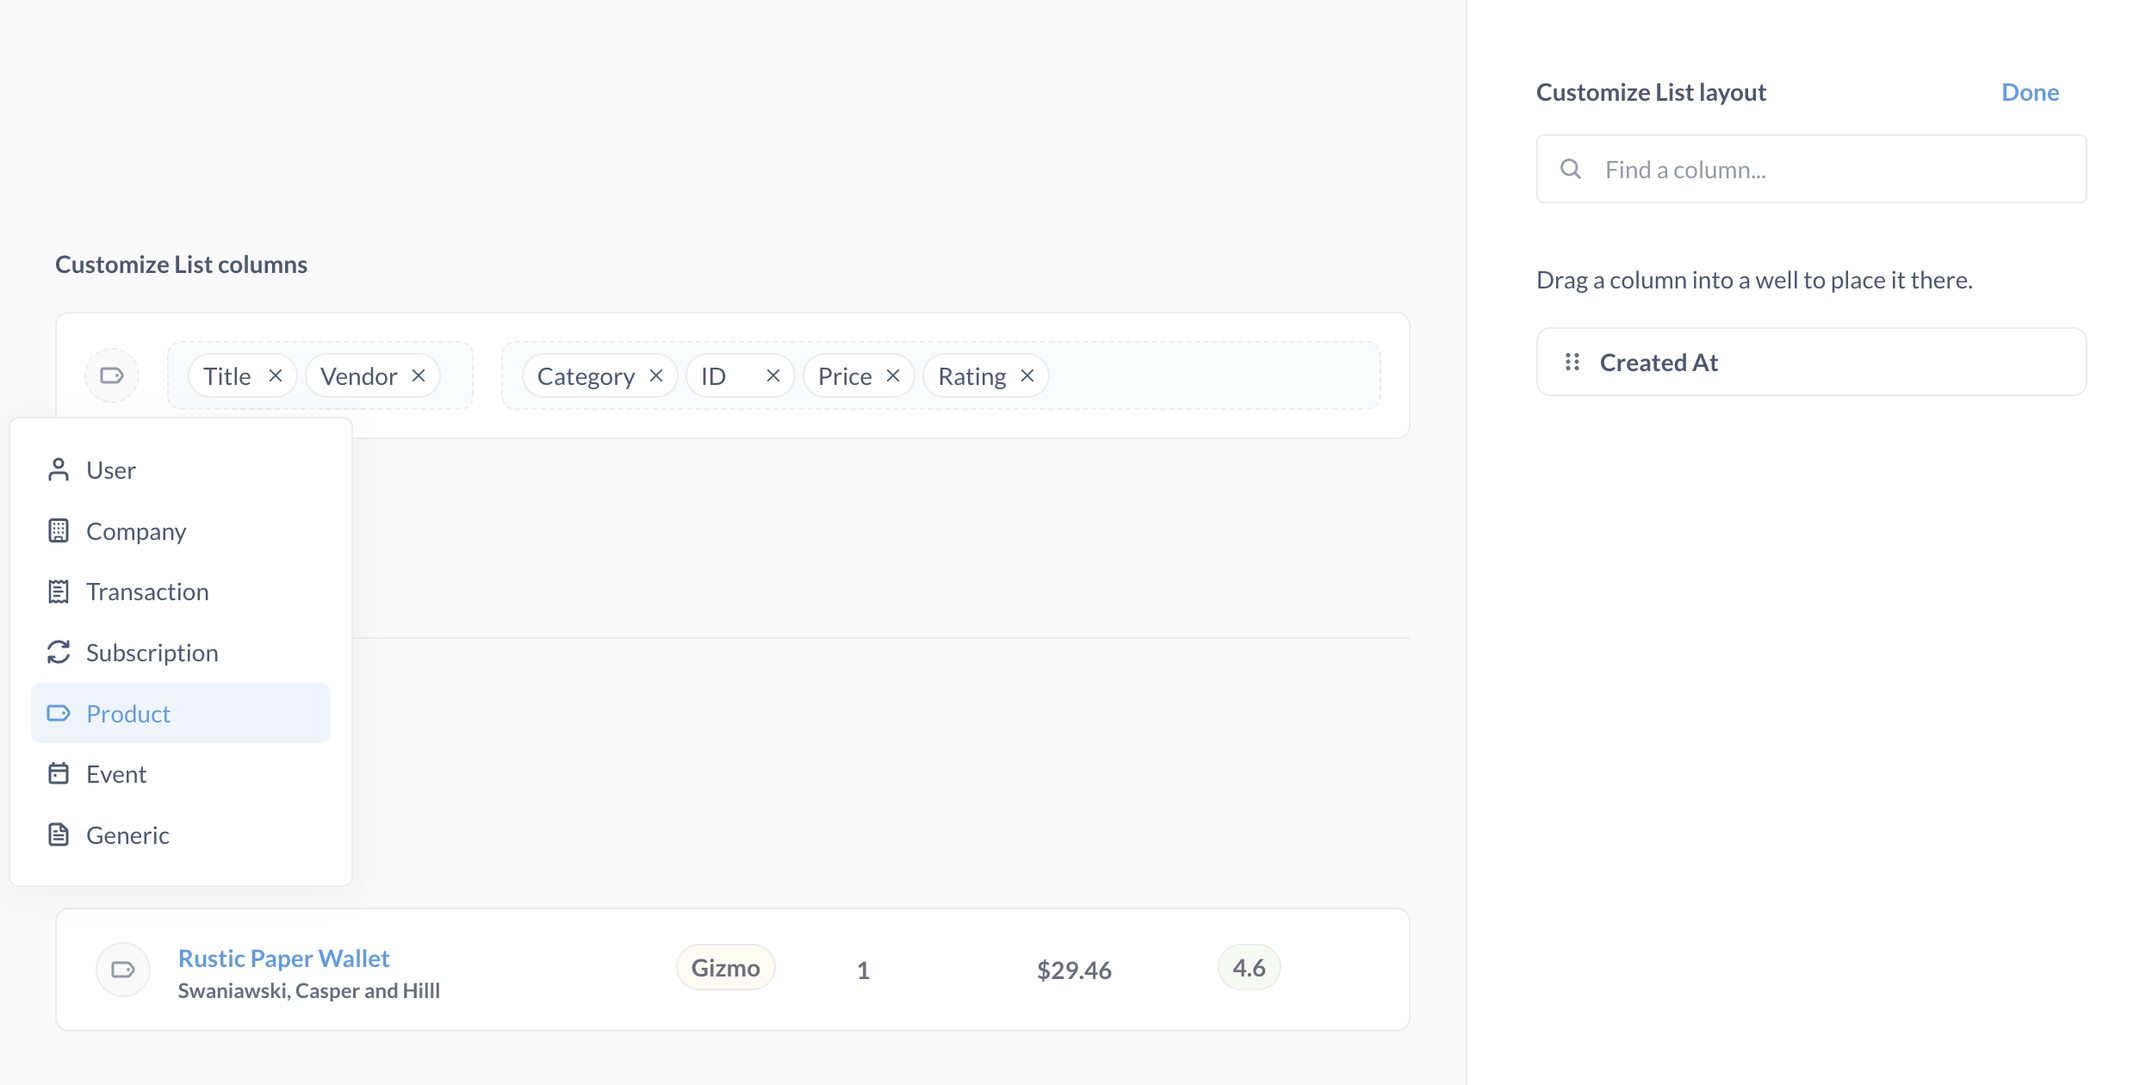
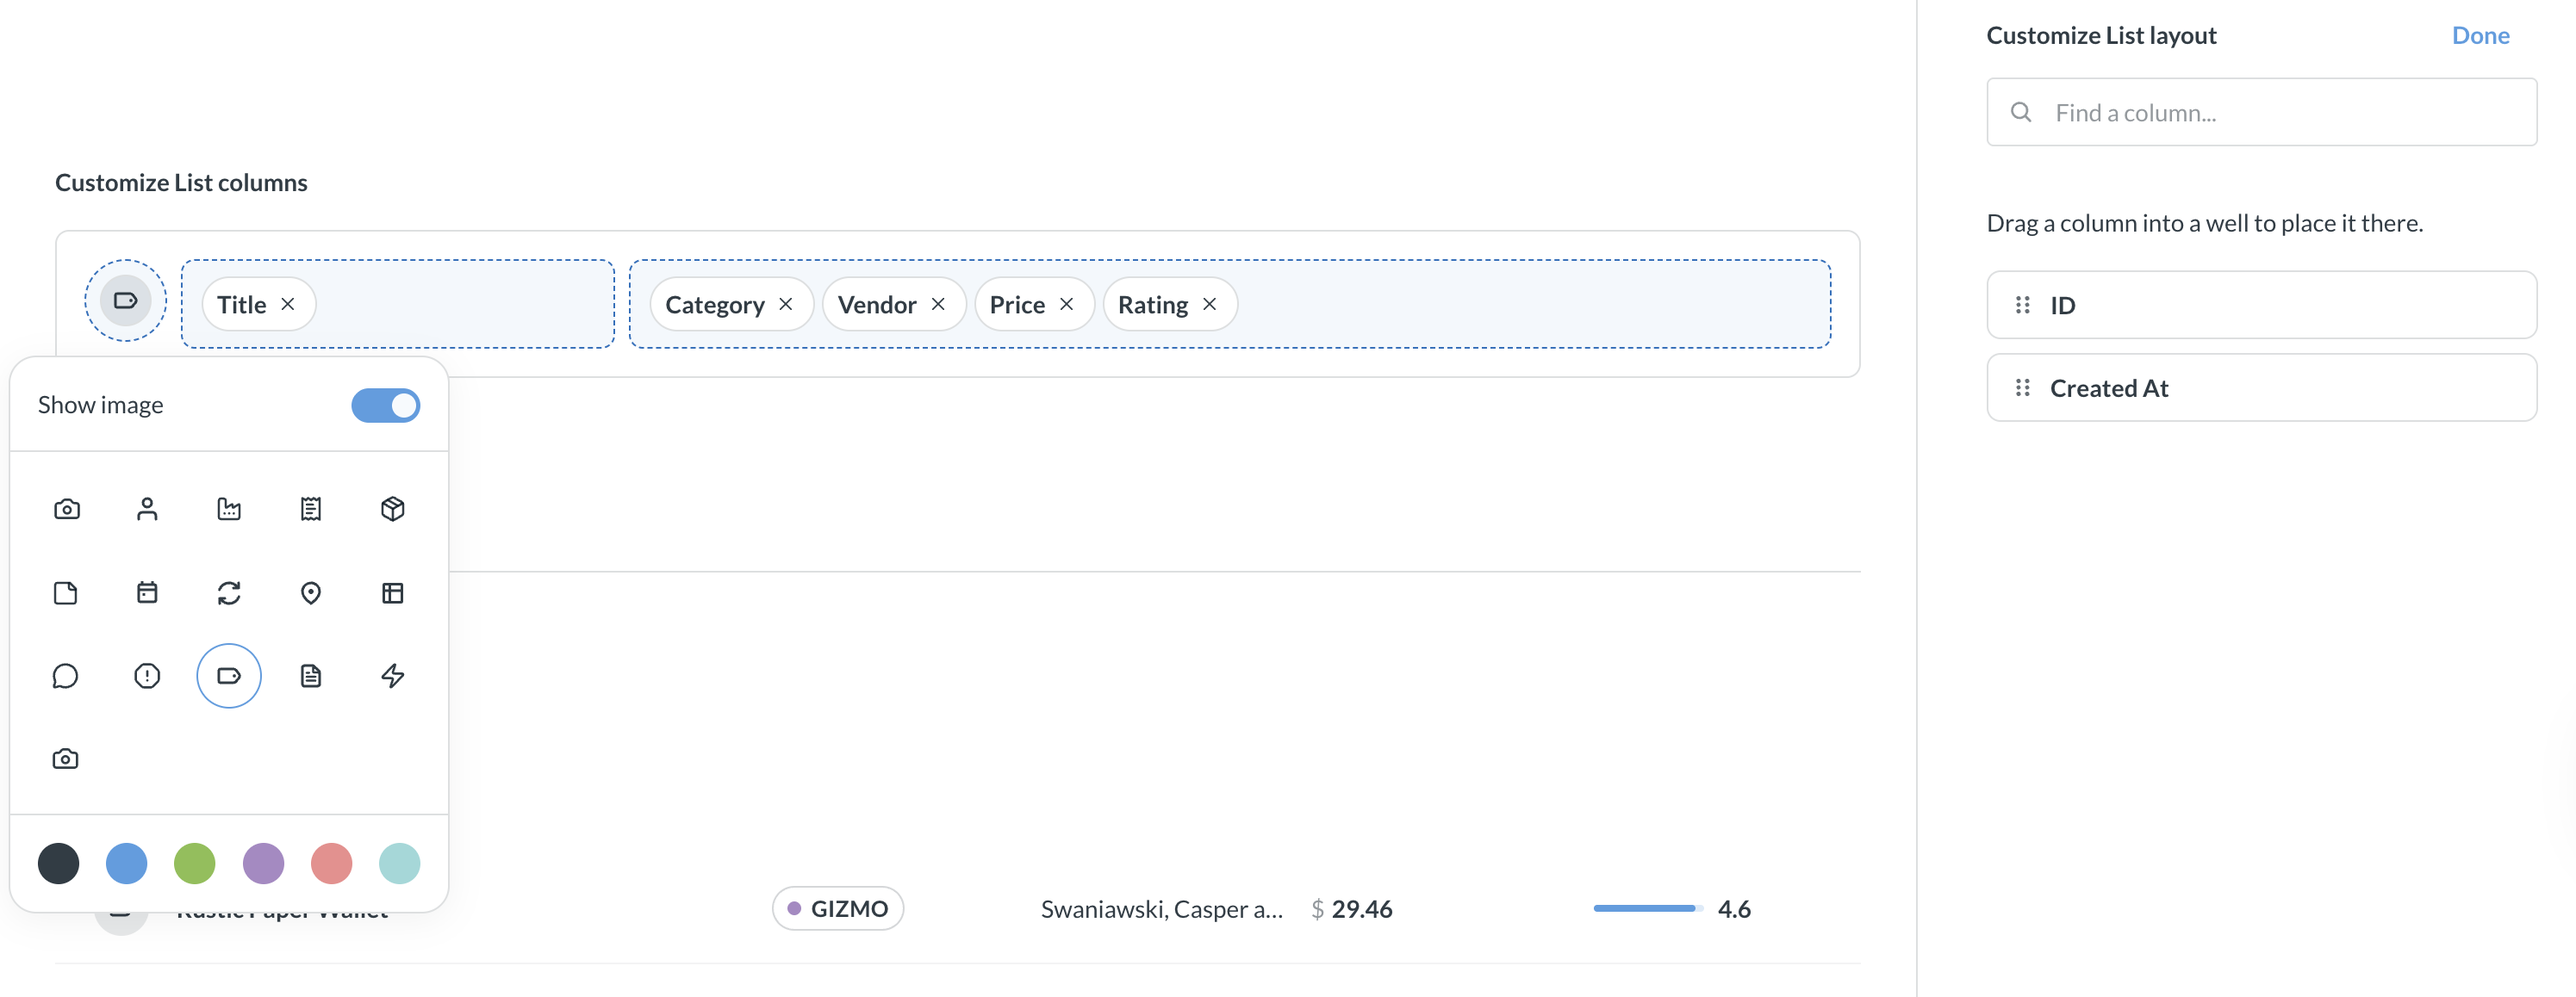
V57 docs: updating Alerts + Model view (#65353)
* update screenshot

* Updating model list view

* updating screenshots to Model view

* Optimized 4 images, saved 406.0 KB (50.9% smaller)

---------

diff --git a/docs/data-modeling/models.md b/docs/data-modeling/models.md
@@ -121,7 +121,10 @@ You can edit a model's query by clicking on the down arrow next to the model's n
 
 ## Model list view
 
-![Viewing a model as a list, with a detail view](./images/model-list-detail.png)
+![Viewing a model as a list](./images/model-list.png)
+
+List view helps you explore records one by one instead of sorting through big tables. You can customize the layout to highlight the most important fields.
+
 
 To view a model as a list:
 
@@ -131,7 +134,7 @@ To view a model as a list:
 4. Navigate to the **Settings** tab.
 5. Under "What should the default view of this data be?", toggle to **List**.
 
-![Model list view](./images/model-list-view.png)
+![Model list edit](./images/model-list-edit.png)
 
 ### Customize model list view
 
@@ -141,21 +144,18 @@ You can customize how the data appears by clicking **Customize the List layout**
 
 Each item in the list has:
 
-- An entity icon
-- A left column with:
-  - The title or primary identifier on top.
-  - A subtitle/description or secondary identifier.
-  - An image (only if the record contains an image link)
-- A right column for up to 5 additional columns.
+- **An entity icon.** If the record has an image link, it shows the image, which you can hide anytime.
+- **A left column** showing the title or primary identifier.
+- **A right column** for up to 5 additional columns.
 
 You can:
 
-- **Search for columns** using the "Find a column..." search box
-- **Drag columns** from the available list into either the left (Title + Subtitle) or right columns areas
-- **Reorder columns** by dragging them within their respective areas
+- **Search for columns** using the "Find a column..." search box.
+- **Drag columns** from the available list into either the left column or right columns areas.
+- **Reorder columns** by dragging them within their respective areas.
 - **Remove columns** by clicking on the X on the column.
 
-You can see a preview on the bottom with sample data from your model. 
+You can see a preview on the bottom with sample data from your model.
 
 Click **Done** to save your changes.
 
